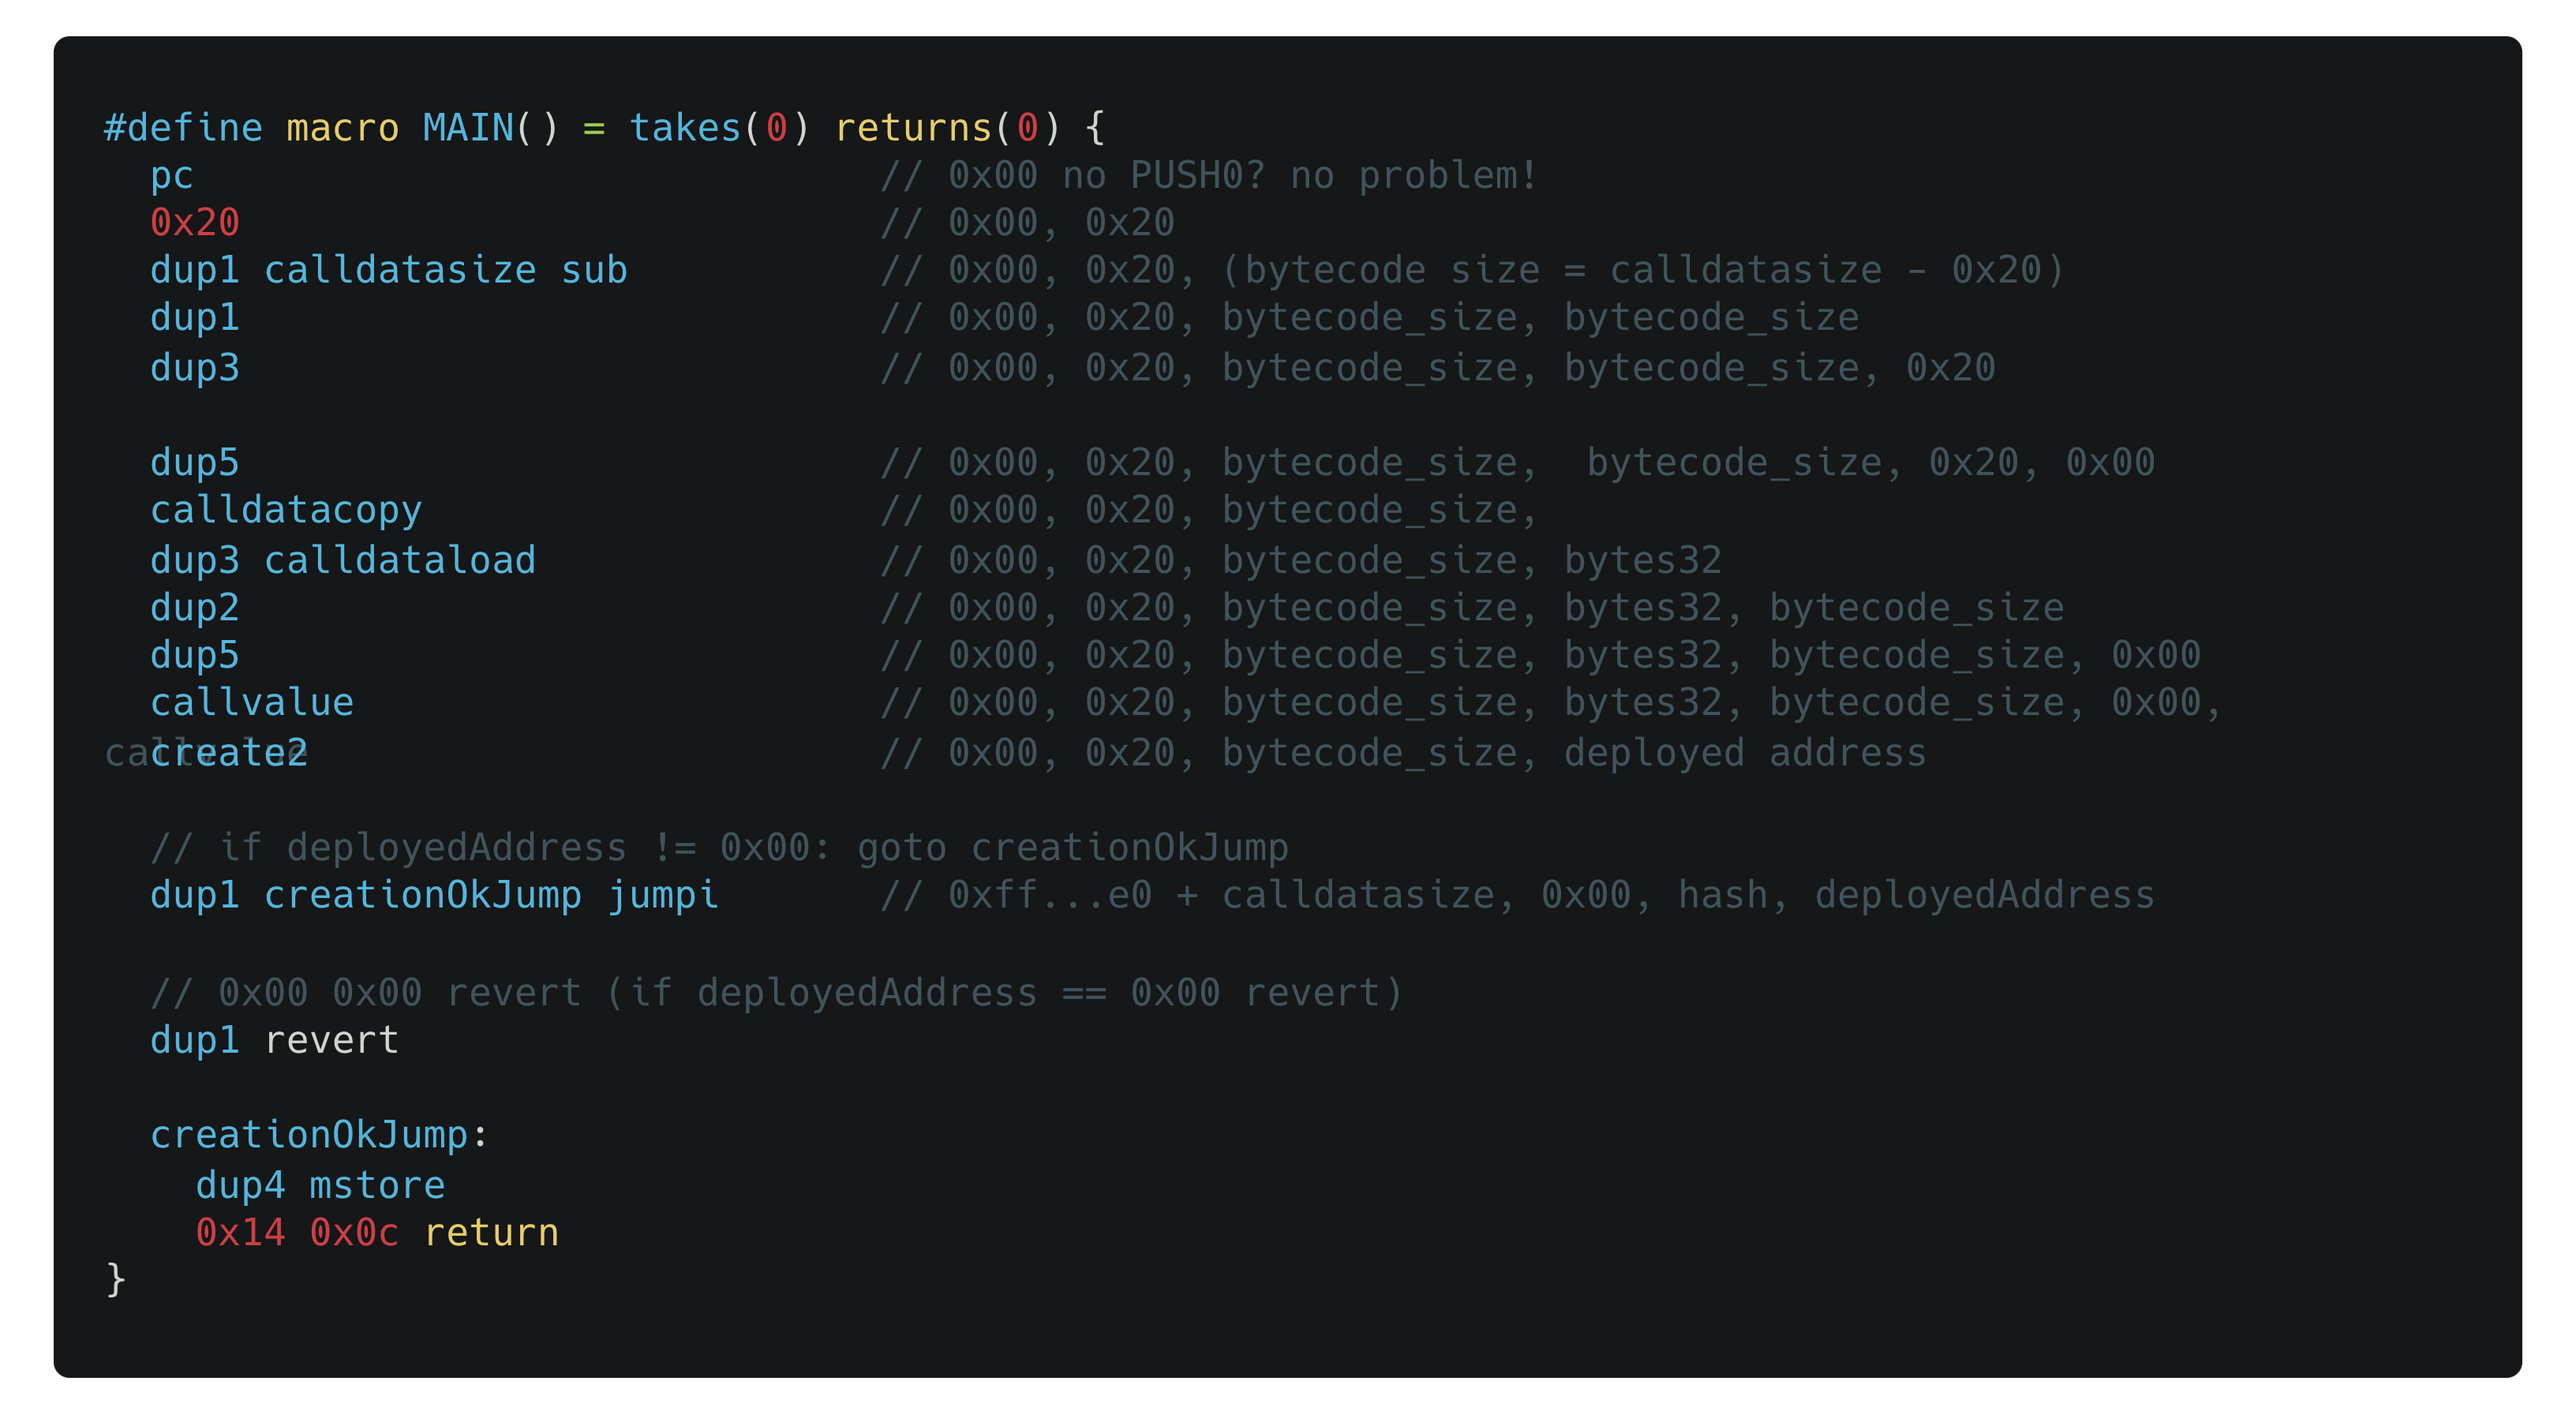
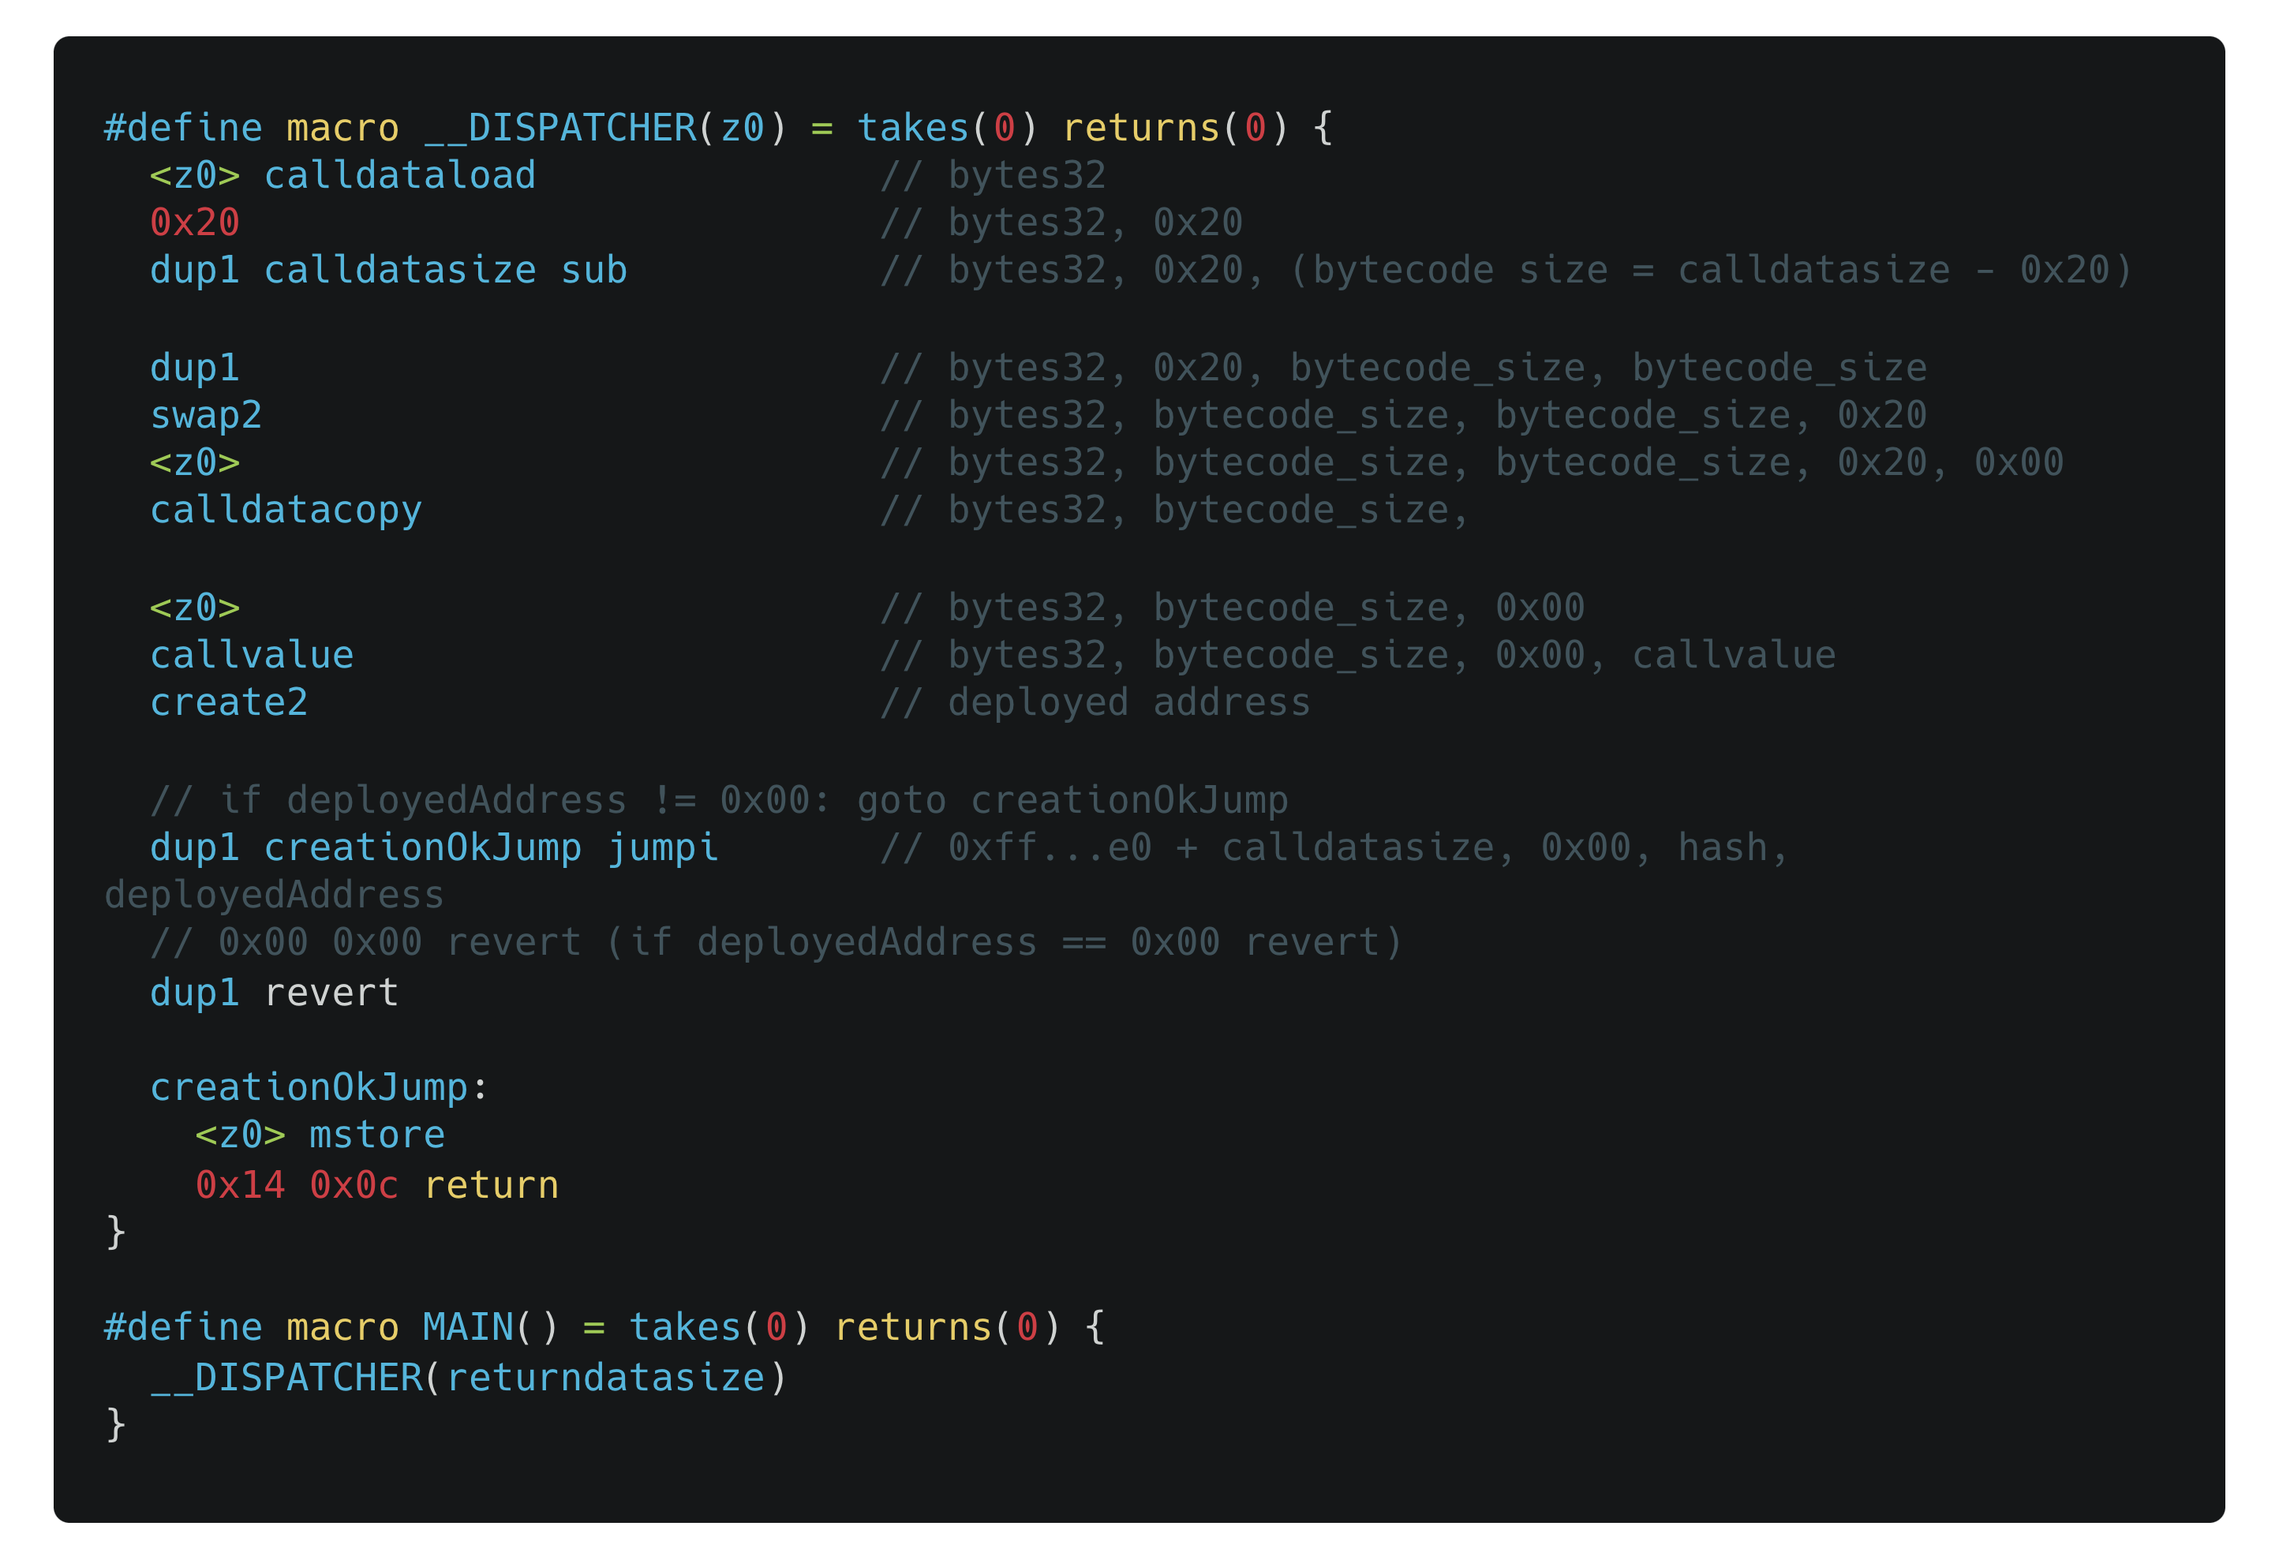
code update

diff --git a/create2deployer/README.md b/create2deployer/README.md
@@ -23,20 +23,19 @@ Durante este hackaton, hemos reescrito el contrato `Create2Deployer` en el lengu
 El código final en Huff es el siguiente:
 
 ```huff
-#define macro MAIN() = takes(0) returns(0) {
-  pc                              // 0x00 no PUSH0? no problem!
-  0x20                            // 0x00, 0x20
-  dup1 calldatasize sub           // 0x00, 0x20, (bytecode size = calldatasize - 0x20)
-  dup1                            // 0x00, 0x20, bytecode_size, bytecode_size
-  dup3                            // 0x00, 0x20, bytecode_size, bytecode_size, 0x20
+#define macro __DISPATCHER(z0) = takes(0) returns(0) {
+  <z0> calldataload               // bytes32
+  0x20                            // bytes32, 0x20
+  dup1 calldatasize sub           // bytes32, 0x20, (bytecode size = calldatasize - 0x20)
+  
+  dup1                            // bytes32, 0x20, bytecode_size, bytecode_size
+  swap2                           // bytes32, bytecode_size, bytecode_size, 0x20
+  <z0>                            // bytes32, bytecode_size, bytecode_size, 0x20, 0x00
+  calldatacopy                    // bytes32, bytecode_size,
 
-  dup5                            // 0x00, 0x20, bytecode_size,  bytecode_size, 0x20, 0x00
-  calldatacopy                    // 0x00, 0x20, bytecode_size,
-  dup3 calldataload               // 0x00, 0x20, bytecode_size, bytes32
-  dup2                            // 0x00, 0x20, bytecode_size, bytes32, bytecode_size
-  dup5                            // 0x00, 0x20, bytecode_size, bytes32, bytecode_size, 0x00
-  callvalue                       // 0x00, 0x20, bytecode_size, bytes32, bytecode_size, 0x00, callvalue
-  create2                         // 0x00, 0x20, bytecode_size, deployed address
+  <z0>                            // bytes32, bytecode_size, 0x00
+  callvalue                       // bytes32, bytecode_size, 0x00, callvalue
+  create2                         // deployed address
   
   // if deployedAddress != 0x00: goto creationOkJump
   dup1 creationOkJump jumpi       // 0xff...e0 + calldatasize, 0x00, hash, deployedAddress
@@ -45,8 +44,12 @@ El código final en Huff es el siguiente:
   dup1 revert
   
   creationOkJump:
-    dup4 mstore
+    <z0> mstore
     0x14 0x0c return
+}
+
+#define macro MAIN() = takes(0) returns(0) {
+  __DISPATCHER(returndatasize)
 }
 ```
 
